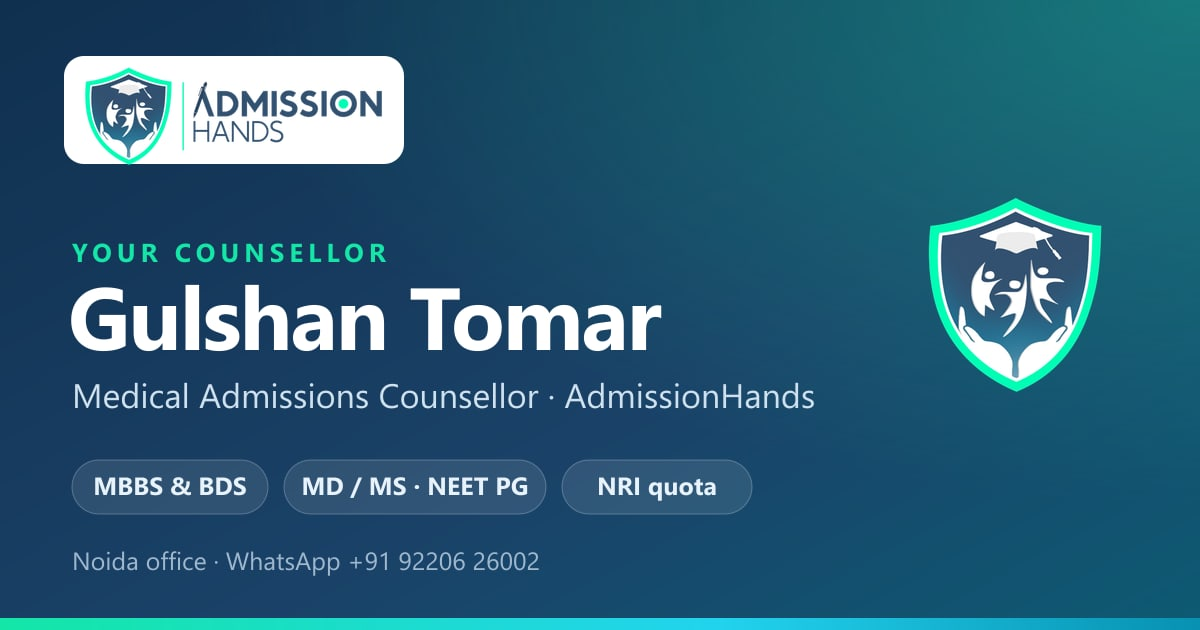
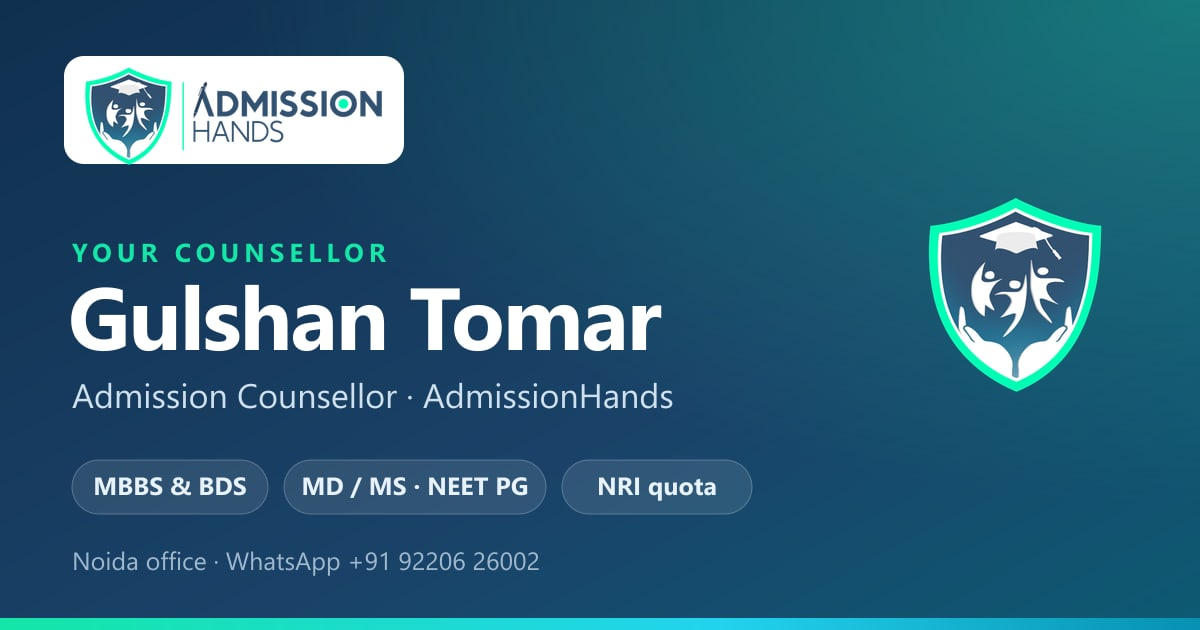
Cards for every counsellor, shared at the site root
Nitin Tomar and Akhtar Khan (Senior Counsellor), Gulshan Tomar and Dev Kumar
(Admission Counsellor), built by scripts/make_cards.cjs from one template:
page, vCard and WhatsApp preview each. Shared as www.admissionhands.com/<slug>
— next.config rewrites every slug found in public/card — and /card/<slug>
keeps working for the link already sent.

Changed region(s): [[0.0617, 0.6032, 0.6783, 0.6635]]

diff --git a/public/card/akhtar-khan.html b/public/card/akhtar-khan.html
@@ -3,20 +3,20 @@
 <head>
 <meta charset="utf-8">
 <meta name="viewport" content="width=device-width, initial-scale=1, viewport-fit=cover">
-<title>Gulshan Tomar · Admission Counsellor · AdmissionHands</title>
-<meta name="description" content="Gulshan Tomar, Admission Counsellor at AdmissionHands — NEET UG and NEET PG counselling for MBBS, BDS and MD/MS. WhatsApp, call or visit the Noida office.">
+<title>Akhtar Khan · Senior Counsellor · AdmissionHands</title>
+<meta name="description" content="Akhtar Khan, Senior Counsellor at AdmissionHands — NEET UG and NEET PG counselling for MBBS, BDS and MD/MS. WhatsApp, call or visit the Noida office.">
 <meta name="robots" content="noindex, follow">
 <meta name="theme-color" content="#10304f">
-<link rel="canonical" href="https://www.admissionhands.com/gulshan-tomar">
+<link rel="canonical" href="https://www.admissionhands.com/akhtar-khan">
 <meta property="og:type" content="profile">
 <meta property="og:site_name" content="AdmissionHands">
-<meta property="og:title" content="Gulshan Tomar — Admission Counsellor">
+<meta property="og:title" content="Akhtar Khan — Senior Counsellor">
 <meta property="og:description" content="NEET UG &amp; PG counselling for MBBS, BDS and MD/MS. Tap to WhatsApp, call, save the contact or get directions to the Noida office.">
-<meta property="og:url" content="https://www.admissionhands.com/gulshan-tomar">
-<meta property="og:image" content="https://www.admissionhands.com/card/gulshan-tomar-og.jpg">
+<meta property="og:url" content="https://www.admissionhands.com/akhtar-khan">
+<meta property="og:image" content="https://www.admissionhands.com/card/akhtar-khan-og.jpg">
 <meta property="og:image:width" content="1200">
 <meta property="og:image:height" content="630">
-<meta property="og:image:alt" content="Gulshan Tomar, Admission Counsellor, AdmissionHands">
+<meta property="og:image:alt" content="Akhtar Khan, Senior Counsellor, AdmissionHands">
 <meta name="twitter:card" content="summary_large_image">
 <link rel="icon" href="/favicon.ico" sizes="any">
 <link rel="apple-touch-icon" href="/apple-touch-icon.png">
@@ -109,11 +109,11 @@ footer img{height:30px;width:auto;display:block;margin:0 auto 8px;filter:brightn
 
     <section class="hero" aria-label="Counsellor">
       <div class="person">
-        <div class="avatar" aria-hidden="true">GT</div>
+        <div class="avatar" aria-hidden="true">AK</div>
         <div>
           <div class="eyebrow">Your counsellor</div>
-          <h1>Gulshan Tomar</h1>
-          <p class="role">Admission Counsellor, AdmissionHands</p>
+          <h1>Akhtar Khan</h1>
+          <p class="role">Senior Counsellor, AdmissionHands</p>
         </div>
       </div>
       <ul class="chips" aria-label="Areas">
@@ -122,16 +122,16 @@ footer img{height:30px;width:auto;display:block;margin:0 auto 8px;filter:brightn
     </section>
 
     <section class="actions" aria-label="Contact">
-      <a class="btn wa" href="https://wa.me/919220626002?text=Hello%20Gulshan%2C%20I%20need%20guidance%20for%20NEET%20counselling." target="_blank" rel="noopener">
+      <a class="btn wa" href="https://wa.me/919999098638?text=Hello%20Akhtar%2C%20I%20need%20guidance%20for%20NEET%20counselling." target="_blank" rel="noopener">
         <svg viewBox="0 0 24 24" aria-hidden="true"><path d="M7.9 20A9 9 0 1 0 4 16.1L2 22Z"/></svg>WhatsApp
       </a>
-      <a class="btn call" href="tel:+919220626002">
+      <a class="btn call" href="tel:+919999098638">
         <svg viewBox="0 0 24 24" aria-hidden="true"><path d="M22 16.92v3a2 2 0 0 1-2.18 2 19.79 19.79 0 0 1-8.63-3.07 19.5 19.5 0 0 1-6-6 19.79 19.79 0 0 1-3.07-8.67A2 2 0 0 1 4.11 2h3a2 2 0 0 1 2 1.72 12.84 12.84 0 0 0 .7 2.81 2 2 0 0 1-.45 2.11L8.09 9.91a16 16 0 0 0 6 6l1.27-1.27a2 2 0 0 1 2.11-.45 12.84 12.84 0 0 0 2.81.7A2 2 0 0 1 22 16.92z"/></svg>Call now
       </a>
-      <a class="btn save wide" href="/card/gulshan-tomar.vcf" download="Gulshan-Tomar-AdmissionHands.vcf">
+      <a class="btn save wide" href="/card/akhtar-khan.vcf" download="Akhtar-Khan-AdmissionHands.vcf">
         <svg viewBox="0 0 24 24" aria-hidden="true"><path d="M16 21v-2a4 4 0 0 0-4-4H6a4 4 0 0 0-4 4v2"/><circle cx="9" cy="7" r="4"/><line x1="19" x2="19" y1="8" y2="14"/><line x1="22" x2="16" y1="11" y2="11"/></svg>Save contact to phone
       </a>
-      <a class="btn ghost" href="mailto:gulshan.tomar@admissionhands.com">
+      <a class="btn ghost" href="mailto:akhtarkhan@admissionhands.com">
         <svg viewBox="0 0 24 24" aria-hidden="true"><rect width="20" height="16" x="2" y="4" rx="2"/><path d="m22 7-8.97 5.7a1.94 1.94 0 0 1-2.06 0L2 7"/></svg>Email
       </a>
       <button class="btn ghost" type="button" id="share">
@@ -180,8 +180,8 @@ footer img{height:30px;width:auto;display:block;margin:0 auto 8px;filter:brightn
 
     <section class="section" aria-label="Contact details">
       <div class="contact">
-        <a href="tel:+919220626002"><svg viewBox="0 0 24 24" aria-hidden="true"><path d="M22 16.92v3a2 2 0 0 1-2.18 2 19.79 19.79 0 0 1-8.63-3.07 19.5 19.5 0 0 1-6-6 19.79 19.79 0 0 1-3.07-8.67A2 2 0 0 1 4.11 2h3a2 2 0 0 1 2 1.72 12.84 12.84 0 0 0 .7 2.81 2 2 0 0 1-.45 2.11L8.09 9.91a16 16 0 0 0 6 6l1.27-1.27a2 2 0 0 1 2.11-.45 12.84 12.84 0 0 0 2.81.7A2 2 0 0 1 22 16.92z"/></svg>+91 92206 26002</a>
-        <a href="mailto:gulshan.tomar@admissionhands.com"><svg viewBox="0 0 24 24" aria-hidden="true"><rect width="20" height="16" x="2" y="4" rx="2"/><path d="m22 7-8.97 5.7a1.94 1.94 0 0 1-2.06 0L2 7"/></svg>gulshan.tomar@admissionhands.com</a>
+        <a href="tel:+919999098638"><svg viewBox="0 0 24 24" aria-hidden="true"><path d="M22 16.92v3a2 2 0 0 1-2.18 2 19.79 19.79 0 0 1-8.63-3.07 19.5 19.5 0 0 1-6-6 19.79 19.79 0 0 1-3.07-8.67A2 2 0 0 1 4.11 2h3a2 2 0 0 1 2 1.72 12.84 12.84 0 0 0 .7 2.81 2 2 0 0 1-.45 2.11L8.09 9.91a16 16 0 0 0 6 6l1.27-1.27a2 2 0 0 1 2.11-.45 12.84 12.84 0 0 0 2.81.7A2 2 0 0 1 22 16.92z"/></svg>+91 99990 98638</a>
+        <a href="mailto:akhtarkhan@admissionhands.com"><svg viewBox="0 0 24 24" aria-hidden="true"><rect width="20" height="16" x="2" y="4" rx="2"/><path d="m22 7-8.97 5.7a1.94 1.94 0 0 1-2.06 0L2 7"/></svg>akhtarkhan@admissionhands.com</a>
         <a href="https://www.admissionhands.com/"><svg viewBox="0 0 24 24" aria-hidden="true"><circle cx="12" cy="12" r="10"/><path d="M12 2a14.5 14.5 0 0 0 0 20 14.5 14.5 0 0 0 0-20"/><path d="M2 12h20"/></svg>www.admissionhands.com</a>
       </div>
     </section>
@@ -197,10 +197,10 @@ footer img{height:30px;width:auto;display:block;margin:0 auto 8px;filter:brightn
 <script>
 (function () {
   var btn = document.getElementById("share"), toast = document.getElementById("toast");
-  var url = "https://www.admissionhands.com/gulshan-tomar";
+  var url = "https://www.admissionhands.com/akhtar-khan";
   function say(t) { toast.textContent = t; toast.classList.add("show"); setTimeout(function () { toast.classList.remove("show"); }, 2200); }
   btn.addEventListener("click", function () {
-    var data = { title: "Gulshan Tomar — AdmissionHands", text: "NEET counselling — Gulshan Tomar, AdmissionHands", url: url };
+    var data = { title: "Akhtar Khan — AdmissionHands", text: "NEET counselling — Akhtar Khan, AdmissionHands", url: url };
     if (navigator.share) { navigator.share(data).catch(function () {}); return; }
     if (navigator.clipboard) { navigator.clipboard.writeText(url).then(function () { say("Link copied"); }, function () { say(url); }); return; }
     say(url);

diff --git a/public/card/nitin-tomar.html b/public/card/nitin-tomar.html
@@ -3,20 +3,20 @@
 <head>
 <meta charset="utf-8">
 <meta name="viewport" content="width=device-width, initial-scale=1, viewport-fit=cover">
-<title>Gulshan Tomar · Admission Counsellor · AdmissionHands</title>
-<meta name="description" content="Gulshan Tomar, Admission Counsellor at AdmissionHands — NEET UG and NEET PG counselling for MBBS, BDS and MD/MS. WhatsApp, call or visit the Noida office.">
+<title>Nitin Tomar · Senior Counsellor · AdmissionHands</title>
+<meta name="description" content="Nitin Tomar, Senior Counsellor at AdmissionHands — NEET UG and NEET PG counselling for MBBS, BDS and MD/MS. WhatsApp, call or visit the Noida office.">
 <meta name="robots" content="noindex, follow">
 <meta name="theme-color" content="#10304f">
-<link rel="canonical" href="https://www.admissionhands.com/gulshan-tomar">
+<link rel="canonical" href="https://www.admissionhands.com/nitin-tomar">
 <meta property="og:type" content="profile">
 <meta property="og:site_name" content="AdmissionHands">
-<meta property="og:title" content="Gulshan Tomar — Admission Counsellor">
+<meta property="og:title" content="Nitin Tomar — Senior Counsellor">
 <meta property="og:description" content="NEET UG &amp; PG counselling for MBBS, BDS and MD/MS. Tap to WhatsApp, call, save the contact or get directions to the Noida office.">
-<meta property="og:url" content="https://www.admissionhands.com/gulshan-tomar">
-<meta property="og:image" content="https://www.admissionhands.com/card/gulshan-tomar-og.jpg">
+<meta property="og:url" content="https://www.admissionhands.com/nitin-tomar">
+<meta property="og:image" content="https://www.admissionhands.com/card/nitin-tomar-og.jpg">
 <meta property="og:image:width" content="1200">
 <meta property="og:image:height" content="630">
-<meta property="og:image:alt" content="Gulshan Tomar, Admission Counsellor, AdmissionHands">
+<meta property="og:image:alt" content="Nitin Tomar, Senior Counsellor, AdmissionHands">
 <meta name="twitter:card" content="summary_large_image">
 <link rel="icon" href="/favicon.ico" sizes="any">
 <link rel="apple-touch-icon" href="/apple-touch-icon.png">
@@ -109,11 +109,11 @@ footer img{height:30px;width:auto;display:block;margin:0 auto 8px;filter:brightn
 
     <section class="hero" aria-label="Counsellor">
       <div class="person">
-        <div class="avatar" aria-hidden="true">GT</div>
+        <div class="avatar" aria-hidden="true">NT</div>
         <div>
           <div class="eyebrow">Your counsellor</div>
-          <h1>Gulshan Tomar</h1>
-          <p class="role">Admission Counsellor, AdmissionHands</p>
+          <h1>Nitin Tomar</h1>
+          <p class="role">Senior Counsellor, AdmissionHands</p>
         </div>
       </div>
       <ul class="chips" aria-label="Areas">
@@ -122,16 +122,16 @@ footer img{height:30px;width:auto;display:block;margin:0 auto 8px;filter:brightn
     </section>
 
     <section class="actions" aria-label="Contact">
-      <a class="btn wa" href="https://wa.me/919220626002?text=Hello%20Gulshan%2C%20I%20need%20guidance%20for%20NEET%20counselling." target="_blank" rel="noopener">
+      <a class="btn wa" href="https://wa.me/919310301949?text=Hello%20Nitin%2C%20I%20need%20guidance%20for%20NEET%20counselling." target="_blank" rel="noopener">
         <svg viewBox="0 0 24 24" aria-hidden="true"><path d="M7.9 20A9 9 0 1 0 4 16.1L2 22Z"/></svg>WhatsApp
       </a>
-      <a class="btn call" href="tel:+919220626002">
+      <a class="btn call" href="tel:+919310301949">
         <svg viewBox="0 0 24 24" aria-hidden="true"><path d="M22 16.92v3a2 2 0 0 1-2.18 2 19.79 19.79 0 0 1-8.63-3.07 19.5 19.5 0 0 1-6-6 19.79 19.79 0 0 1-3.07-8.67A2 2 0 0 1 4.11 2h3a2 2 0 0 1 2 1.72 12.84 12.84 0 0 0 .7 2.81 2 2 0 0 1-.45 2.11L8.09 9.91a16 16 0 0 0 6 6l1.27-1.27a2 2 0 0 1 2.11-.45 12.84 12.84 0 0 0 2.81.7A2 2 0 0 1 22 16.92z"/></svg>Call now
       </a>
-      <a class="btn save wide" href="/card/gulshan-tomar.vcf" download="Gulshan-Tomar-AdmissionHands.vcf">
+      <a class="btn save wide" href="/card/nitin-tomar.vcf" download="Nitin-Tomar-AdmissionHands.vcf">
         <svg viewBox="0 0 24 24" aria-hidden="true"><path d="M16 21v-2a4 4 0 0 0-4-4H6a4 4 0 0 0-4 4v2"/><circle cx="9" cy="7" r="4"/><line x1="19" x2="19" y1="8" y2="14"/><line x1="22" x2="16" y1="11" y2="11"/></svg>Save contact to phone
       </a>
-      <a class="btn ghost" href="mailto:gulshan.tomar@admissionhands.com">
+      <a class="btn ghost" href="mailto:nitintomar@admissionhands.com">
         <svg viewBox="0 0 24 24" aria-hidden="true"><rect width="20" height="16" x="2" y="4" rx="2"/><path d="m22 7-8.97 5.7a1.94 1.94 0 0 1-2.06 0L2 7"/></svg>Email
       </a>
       <button class="btn ghost" type="button" id="share">
@@ -180,8 +180,8 @@ footer img{height:30px;width:auto;display:block;margin:0 auto 8px;filter:brightn
 
     <section class="section" aria-label="Contact details">
       <div class="contact">
-        <a href="tel:+919220626002"><svg viewBox="0 0 24 24" aria-hidden="true"><path d="M22 16.92v3a2 2 0 0 1-2.18 2 19.79 19.79 0 0 1-8.63-3.07 19.5 19.5 0 0 1-6-6 19.79 19.79 0 0 1-3.07-8.67A2 2 0 0 1 4.11 2h3a2 2 0 0 1 2 1.72 12.84 12.84 0 0 0 .7 2.81 2 2 0 0 1-.45 2.11L8.09 9.91a16 16 0 0 0 6 6l1.27-1.27a2 2 0 0 1 2.11-.45 12.84 12.84 0 0 0 2.81.7A2 2 0 0 1 22 16.92z"/></svg>+91 92206 26002</a>
-        <a href="mailto:gulshan.tomar@admissionhands.com"><svg viewBox="0 0 24 24" aria-hidden="true"><rect width="20" height="16" x="2" y="4" rx="2"/><path d="m22 7-8.97 5.7a1.94 1.94 0 0 1-2.06 0L2 7"/></svg>gulshan.tomar@admissionhands.com</a>
+        <a href="tel:+919310301949"><svg viewBox="0 0 24 24" aria-hidden="true"><path d="M22 16.92v3a2 2 0 0 1-2.18 2 19.79 19.79 0 0 1-8.63-3.07 19.5 19.5 0 0 1-6-6 19.79 19.79 0 0 1-3.07-8.67A2 2 0 0 1 4.11 2h3a2 2 0 0 1 2 1.72 12.84 12.84 0 0 0 .7 2.81 2 2 0 0 1-.45 2.11L8.09 9.91a16 16 0 0 0 6 6l1.27-1.27a2 2 0 0 1 2.11-.45 12.84 12.84 0 0 0 2.81.7A2 2 0 0 1 22 16.92z"/></svg>+91 93103 01949</a>
+        <a href="mailto:nitintomar@admissionhands.com"><svg viewBox="0 0 24 24" aria-hidden="true"><rect width="20" height="16" x="2" y="4" rx="2"/><path d="m22 7-8.97 5.7a1.94 1.94 0 0 1-2.06 0L2 7"/></svg>nitintomar@admissionhands.com</a>
         <a href="https://www.admissionhands.com/"><svg viewBox="0 0 24 24" aria-hidden="true"><circle cx="12" cy="12" r="10"/><path d="M12 2a14.5 14.5 0 0 0 0 20 14.5 14.5 0 0 0 0-20"/><path d="M2 12h20"/></svg>www.admissionhands.com</a>
       </div>
     </section>
@@ -197,10 +197,10 @@ footer img{height:30px;width:auto;display:block;margin:0 auto 8px;filter:brightn
 <script>
 (function () {
   var btn = document.getElementById("share"), toast = document.getElementById("toast");
-  var url = "https://www.admissionhands.com/gulshan-tomar";
+  var url = "https://www.admissionhands.com/nitin-tomar";
   function say(t) { toast.textContent = t; toast.classList.add("show"); setTimeout(function () { toast.classList.remove("show"); }, 2200); }
   btn.addEventListener("click", function () {
-    var data = { title: "Gulshan Tomar — AdmissionHands", text: "NEET counselling — Gulshan Tomar, AdmissionHands", url: url };
+    var data = { title: "Nitin Tomar — AdmissionHands", text: "NEET counselling — Nitin Tomar, AdmissionHands", url: url };
     if (navigator.share) { navigator.share(data).catch(function () {}); return; }
     if (navigator.clipboard) { navigator.clipboard.writeText(url).then(function () { say("Link copied"); }, function () { say(url); }); return; }
     say(url);

diff --git a/public/card/dev-kumar.html b/public/card/dev-kumar.html
@@ -3,20 +3,20 @@
 <head>
 <meta charset="utf-8">
 <meta name="viewport" content="width=device-width, initial-scale=1, viewport-fit=cover">
-<title>Gulshan Tomar · Admission Counsellor · AdmissionHands</title>
-<meta name="description" content="Gulshan Tomar, Admission Counsellor at AdmissionHands — NEET UG and NEET PG counselling for MBBS, BDS and MD/MS. WhatsApp, call or visit the Noida office.">
+<title>Dev Kumar · Admission Counsellor · AdmissionHands</title>
+<meta name="description" content="Dev Kumar, Admission Counsellor at AdmissionHands — NEET UG and NEET PG counselling for MBBS, BDS and MD/MS. WhatsApp, call or visit the Noida office.">
 <meta name="robots" content="noindex, follow">
 <meta name="theme-color" content="#10304f">
-<link rel="canonical" href="https://www.admissionhands.com/gulshan-tomar">
+<link rel="canonical" href="https://www.admissionhands.com/dev-kumar">
 <meta property="og:type" content="profile">
 <meta property="og:site_name" content="AdmissionHands">
-<meta property="og:title" content="Gulshan Tomar — Admission Counsellor">
+<meta property="og:title" content="Dev Kumar — Admission Counsellor">
 <meta property="og:description" content="NEET UG &amp; PG counselling for MBBS, BDS and MD/MS. Tap to WhatsApp, call, save the contact or get directions to the Noida office.">
-<meta property="og:url" content="https://www.admissionhands.com/gulshan-tomar">
-<meta property="og:image" content="https://www.admissionhands.com/card/gulshan-tomar-og.jpg">
+<meta property="og:url" content="https://www.admissionhands.com/dev-kumar">
+<meta property="og:image" content="https://www.admissionhands.com/card/dev-kumar-og.jpg">
 <meta property="og:image:width" content="1200">
 <meta property="og:image:height" content="630">
-<meta property="og:image:alt" content="Gulshan Tomar, Admission Counsellor, AdmissionHands">
+<meta property="og:image:alt" content="Dev Kumar, Admission Counsellor, AdmissionHands">
 <meta name="twitter:card" content="summary_large_image">
 <link rel="icon" href="/favicon.ico" sizes="any">
 <link rel="apple-touch-icon" href="/apple-touch-icon.png">
@@ -109,10 +109,10 @@ footer img{height:30px;width:auto;display:block;margin:0 auto 8px;filter:brightn
 
     <section class="hero" aria-label="Counsellor">
       <div class="person">
-        <div class="avatar" aria-hidden="true">GT</div>
+        <div class="avatar" aria-hidden="true">DK</div>
         <div>
           <div class="eyebrow">Your counsellor</div>
-          <h1>Gulshan Tomar</h1>
+          <h1>Dev Kumar</h1>
           <p class="role">Admission Counsellor, AdmissionHands</p>
         </div>
       </div>
@@ -122,16 +122,16 @@ footer img{height:30px;width:auto;display:block;margin:0 auto 8px;filter:brightn
     </section>
 
     <section class="actions" aria-label="Contact">
-      <a class="btn wa" href="https://wa.me/919220626002?text=Hello%20Gulshan%2C%20I%20need%20guidance%20for%20NEET%20counselling." target="_blank" rel="noopener">
+      <a class="btn wa" href="https://wa.me/917678670846?text=Hello%20Dev%2C%20I%20need%20guidance%20for%20NEET%20counselling." target="_blank" rel="noopener">
         <svg viewBox="0 0 24 24" aria-hidden="true"><path d="M7.9 20A9 9 0 1 0 4 16.1L2 22Z"/></svg>WhatsApp
       </a>
-      <a class="btn call" href="tel:+919220626002">
+      <a class="btn call" href="tel:+917678670846">
         <svg viewBox="0 0 24 24" aria-hidden="true"><path d="M22 16.92v3a2 2 0 0 1-2.18 2 19.79 19.79 0 0 1-8.63-3.07 19.5 19.5 0 0 1-6-6 19.79 19.79 0 0 1-3.07-8.67A2 2 0 0 1 4.11 2h3a2 2 0 0 1 2 1.72 12.84 12.84 0 0 0 .7 2.81 2 2 0 0 1-.45 2.11L8.09 9.91a16 16 0 0 0 6 6l1.27-1.27a2 2 0 0 1 2.11-.45 12.84 12.84 0 0 0 2.81.7A2 2 0 0 1 22 16.92z"/></svg>Call now
       </a>
-      <a class="btn save wide" href="/card/gulshan-tomar.vcf" download="Gulshan-Tomar-AdmissionHands.vcf">
+      <a class="btn save wide" href="/card/dev-kumar.vcf" download="Dev-Kumar-AdmissionHands.vcf">
         <svg viewBox="0 0 24 24" aria-hidden="true"><path d="M16 21v-2a4 4 0 0 0-4-4H6a4 4 0 0 0-4 4v2"/><circle cx="9" cy="7" r="4"/><line x1="19" x2="19" y1="8" y2="14"/><line x1="22" x2="16" y1="11" y2="11"/></svg>Save contact to phone
       </a>
-      <a class="btn ghost" href="mailto:gulshan.tomar@admissionhands.com">
+      <a class="btn ghost" href="mailto:devkumar@admissionhands.com">
         <svg viewBox="0 0 24 24" aria-hidden="true"><rect width="20" height="16" x="2" y="4" rx="2"/><path d="m22 7-8.97 5.7a1.94 1.94 0 0 1-2.06 0L2 7"/></svg>Email
       </a>
       <button class="btn ghost" type="button" id="share">
@@ -180,8 +180,8 @@ footer img{height:30px;width:auto;display:block;margin:0 auto 8px;filter:brightn
 
     <section class="section" aria-label="Contact details">
       <div class="contact">
-        <a href="tel:+919220626002"><svg viewBox="0 0 24 24" aria-hidden="true"><path d="M22 16.92v3a2 2 0 0 1-2.18 2 19.79 19.79 0 0 1-8.63-3.07 19.5 19.5 0 0 1-6-6 19.79 19.79 0 0 1-3.07-8.67A2 2 0 0 1 4.11 2h3a2 2 0 0 1 2 1.72 12.84 12.84 0 0 0 .7 2.81 2 2 0 0 1-.45 2.11L8.09 9.91a16 16 0 0 0 6 6l1.27-1.27a2 2 0 0 1 2.11-.45 12.84 12.84 0 0 0 2.81.7A2 2 0 0 1 22 16.92z"/></svg>+91 92206 26002</a>
-        <a href="mailto:gulshan.tomar@admissionhands.com"><svg viewBox="0 0 24 24" aria-hidden="true"><rect width="20" height="16" x="2" y="4" rx="2"/><path d="m22 7-8.97 5.7a1.94 1.94 0 0 1-2.06 0L2 7"/></svg>gulshan.tomar@admissionhands.com</a>
+        <a href="tel:+917678670846"><svg viewBox="0 0 24 24" aria-hidden="true"><path d="M22 16.92v3a2 2 0 0 1-2.18 2 19.79 19.79 0 0 1-8.63-3.07 19.5 19.5 0 0 1-6-6 19.79 19.79 0 0 1-3.07-8.67A2 2 0 0 1 4.11 2h3a2 2 0 0 1 2 1.72 12.84 12.84 0 0 0 .7 2.81 2 2 0 0 1-.45 2.11L8.09 9.91a16 16 0 0 0 6 6l1.27-1.27a2 2 0 0 1 2.11-.45 12.84 12.84 0 0 0 2.81.7A2 2 0 0 1 22 16.92z"/></svg>+91 76786 70846</a>
+        <a href="mailto:devkumar@admissionhands.com"><svg viewBox="0 0 24 24" aria-hidden="true"><rect width="20" height="16" x="2" y="4" rx="2"/><path d="m22 7-8.97 5.7a1.94 1.94 0 0 1-2.06 0L2 7"/></svg>devkumar@admissionhands.com</a>
         <a href="https://www.admissionhands.com/"><svg viewBox="0 0 24 24" aria-hidden="true"><circle cx="12" cy="12" r="10"/><path d="M12 2a14.5 14.5 0 0 0 0 20 14.5 14.5 0 0 0 0-20"/><path d="M2 12h20"/></svg>www.admissionhands.com</a>
       </div>
     </section>
@@ -197,10 +197,10 @@ footer img{height:30px;width:auto;display:block;margin:0 auto 8px;filter:brightn
 <script>
 (function () {
   var btn = document.getElementById("share"), toast = document.getElementById("toast");
-  var url = "https://www.admissionhands.com/gulshan-tomar";
+  var url = "https://www.admissionhands.com/dev-kumar";
   function say(t) { toast.textContent = t; toast.classList.add("show"); setTimeout(function () { toast.classList.remove("show"); }, 2200); }
   btn.addEventListener("click", function () {
-    var data = { title: "Gulshan Tomar — AdmissionHands", text: "NEET counselling — Gulshan Tomar, AdmissionHands", url: url };
+    var data = { title: "Dev Kumar — AdmissionHands", text: "NEET counselling — Dev Kumar, AdmissionHands", url: url };
     if (navigator.share) { navigator.share(data).catch(function () {}); return; }
     if (navigator.clipboard) { navigator.clipboard.writeText(url).then(function () { say("Link copied"); }, function () { say(url); }); return; }
     say(url);

diff --git a/scripts/cards/template.html b/scripts/cards/template.html
@@ -3,20 +3,20 @@
 <head>
 <meta charset="utf-8">
 <meta name="viewport" content="width=device-width, initial-scale=1, viewport-fit=cover">
-<title>Gulshan Tomar · Admission Counsellor · AdmissionHands</title>
-<meta name="description" content="Gulshan Tomar, Admission Counsellor at AdmissionHands — NEET UG and NEET PG counselling for MBBS, BDS and MD/MS. WhatsApp, call or visit the Noida office.">
+<title>{{NAME}} · {{TITLE}} · AdmissionHands</title>
+<meta name="description" content="{{NAME}}, {{TITLE}} at AdmissionHands — NEET UG and NEET PG counselling for MBBS, BDS and MD/MS. WhatsApp, call or visit the Noida office.">
 <meta name="robots" content="noindex, follow">
 <meta name="theme-color" content="#10304f">
-<link rel="canonical" href="https://www.admissionhands.com/gulshan-tomar">
+<link rel="canonical" href="https://www.admissionhands.com/{{SLUG}}">
 <meta property="og:type" content="profile">
 <meta property="og:site_name" content="AdmissionHands">
-<meta property="og:title" content="Gulshan Tomar — Admission Counsellor">
+<meta property="og:title" content="{{NAME}} — {{TITLE}}">
 <meta property="og:description" content="NEET UG &amp; PG counselling for MBBS, BDS and MD/MS. Tap to WhatsApp, call, save the contact or get directions to the Noida office.">
-<meta property="og:url" content="https://www.admissionhands.com/gulshan-tomar">
-<meta property="og:image" content="https://www.admissionhands.com/card/gulshan-tomar-og.jpg">
+<meta property="og:url" content="https://www.admissionhands.com/{{SLUG}}">
+<meta property="og:image" content="https://www.admissionhands.com/card/{{SLUG}}-og.jpg">
 <meta property="og:image:width" content="1200">
 <meta property="og:image:height" content="630">
-<meta property="og:image:alt" content="Gulshan Tomar, Admission Counsellor, AdmissionHands">
+<meta property="og:image:alt" content="{{NAME}}, {{TITLE}}, AdmissionHands">
 <meta name="twitter:card" content="summary_large_image">
 <link rel="icon" href="/favicon.ico" sizes="any">
 <link rel="apple-touch-icon" href="/apple-touch-icon.png">
@@ -109,11 +109,11 @@ footer img{height:30px;width:auto;display:block;margin:0 auto 8px;filter:brightn
 
     <section class="hero" aria-label="Counsellor">
       <div class="person">
-        <div class="avatar" aria-hidden="true">GT</div>
+        <div class="avatar" aria-hidden="true">{{INITIALS}}</div>
         <div>
           <div class="eyebrow">Your counsellor</div>
-          <h1>Gulshan Tomar</h1>
-          <p class="role">Admission Counsellor, AdmissionHands</p>
+          <h1>{{NAME}}</h1>
+          <p class="role">{{TITLE}}, AdmissionHands</p>
         </div>
       </div>
       <ul class="chips" aria-label="Areas">
@@ -122,16 +122,16 @@ footer img{height:30px;width:auto;display:block;margin:0 auto 8px;filter:brightn
     </section>
 
     <section class="actions" aria-label="Contact">
-      <a class="btn wa" href="https://wa.me/919220626002?text=Hello%20Gulshan%2C%20I%20need%20guidance%20for%20NEET%20counselling." target="_blank" rel="noopener">
+      <a class="btn wa" href="https://wa.me/{{PHONE}}?text=Hello%20{{FIRST}}%2C%20I%20need%20guidance%20for%20NEET%20counselling." target="_blank" rel="noopener">
         <svg viewBox="0 0 24 24" aria-hidden="true"><path d="M7.9 20A9 9 0 1 0 4 16.1L2 22Z"/></svg>WhatsApp
       </a>
-      <a class="btn call" href="tel:+919220626002">
+      <a class="btn call" href="tel:+{{PHONE}}">
         <svg viewBox="0 0 24 24" aria-hidden="true"><path d="M22 16.92v3a2 2 0 0 1-2.18 2 19.79 19.79 0 0 1-8.63-3.07 19.5 19.5 0 0 1-6-6 19.79 19.79 0 0 1-3.07-8.67A2 2 0 0 1 4.11 2h3a2 2 0 0 1 2 1.72 12.84 12.84 0 0 0 .7 2.81 2 2 0 0 1-.45 2.11L8.09 9.91a16 16 0 0 0 6 6l1.27-1.27a2 2 0 0 1 2.11-.45 12.84 12.84 0 0 0 2.81.7A2 2 0 0 1 22 16.92z"/></svg>Call now
       </a>
-      <a class="btn save wide" href="/card/gulshan-tomar.vcf" download="Gulshan-Tomar-AdmissionHands.vcf">
+      <a class="btn save wide" href="/card/{{SLUG}}.vcf" download="{{FILE}}-AdmissionHands.vcf">
         <svg viewBox="0 0 24 24" aria-hidden="true"><path d="M16 21v-2a4 4 0 0 0-4-4H6a4 4 0 0 0-4 4v2"/><circle cx="9" cy="7" r="4"/><line x1="19" x2="19" y1="8" y2="14"/><line x1="22" x2="16" y1="11" y2="11"/></svg>Save contact to phone
       </a>
-      <a class="btn ghost" href="mailto:gulshan.tomar@admissionhands.com">
+      <a class="btn ghost" href="mailto:{{EMAIL}}">
         <svg viewBox="0 0 24 24" aria-hidden="true"><rect width="20" height="16" x="2" y="4" rx="2"/><path d="m22 7-8.97 5.7a1.94 1.94 0 0 1-2.06 0L2 7"/></svg>Email
       </a>
       <button class="btn ghost" type="button" id="share">
@@ -180,8 +180,8 @@ footer img{height:30px;width:auto;display:block;margin:0 auto 8px;filter:brightn
 
     <section class="section" aria-label="Contact details">
       <div class="contact">
-        <a href="tel:+919220626002"><svg viewBox="0 0 24 24" aria-hidden="true"><path d="M22 16.92v3a2 2 0 0 1-2.18 2 19.79 19.79 0 0 1-8.63-3.07 19.5 19.5 0 0 1-6-6 19.79 19.79 0 0 1-3.07-8.67A2 2 0 0 1 4.11 2h3a2 2 0 0 1 2 1.72 12.84 12.84 0 0 0 .7 2.81 2 2 0 0 1-.45 2.11L8.09 9.91a16 16 0 0 0 6 6l1.27-1.27a2 2 0 0 1 2.11-.45 12.84 12.84 0 0 0 2.81.7A2 2 0 0 1 22 16.92z"/></svg>+91 92206 26002</a>
-        <a href="mailto:gulshan.tomar@admissionhands.com"><svg viewBox="0 0 24 24" aria-hidden="true"><rect width="20" height="16" x="2" y="4" rx="2"/><path d="m22 7-8.97 5.7a1.94 1.94 0 0 1-2.06 0L2 7"/></svg>gulshan.tomar@admissionhands.com</a>
+        <a href="tel:+{{PHONE}}"><svg viewBox="0 0 24 24" aria-hidden="true"><path d="M22 16.92v3a2 2 0 0 1-2.18 2 19.79 19.79 0 0 1-8.63-3.07 19.5 19.5 0 0 1-6-6 19.79 19.79 0 0 1-3.07-8.67A2 2 0 0 1 4.11 2h3a2 2 0 0 1 2 1.72 12.84 12.84 0 0 0 .7 2.81 2 2 0 0 1-.45 2.11L8.09 9.91a16 16 0 0 0 6 6l1.27-1.27a2 2 0 0 1 2.11-.45 12.84 12.84 0 0 0 2.81.7A2 2 0 0 1 22 16.92z"/></svg>{{PHONE_PRETTY}}</a>
+        <a href="mailto:{{EMAIL}}"><svg viewBox="0 0 24 24" aria-hidden="true"><rect width="20" height="16" x="2" y="4" rx="2"/><path d="m22 7-8.97 5.7a1.94 1.94 0 0 1-2.06 0L2 7"/></svg>{{EMAIL}}</a>
         <a href="https://www.admissionhands.com/"><svg viewBox="0 0 24 24" aria-hidden="true"><circle cx="12" cy="12" r="10"/><path d="M12 2a14.5 14.5 0 0 0 0 20 14.5 14.5 0 0 0 0-20"/><path d="M2 12h20"/></svg>www.admissionhands.com</a>
       </div>
     </section>
@@ -197,10 +197,10 @@ footer img{height:30px;width:auto;display:block;margin:0 auto 8px;filter:brightn
 <script>
 (function () {
   var btn = document.getElementById("share"), toast = document.getElementById("toast");
-  var url = "https://www.admissionhands.com/gulshan-tomar";
+  var url = "https://www.admissionhands.com/{{SLUG}}";
   function say(t) { toast.textContent = t; toast.classList.add("show"); setTimeout(function () { toast.classList.remove("show"); }, 2200); }
   btn.addEventListener("click", function () {
-    var data = { title: "Gulshan Tomar — AdmissionHands", text: "NEET counselling — Gulshan Tomar, AdmissionHands", url: url };
+    var data = { title: "{{NAME}} — AdmissionHands", text: "NEET counselling — {{NAME}}, AdmissionHands", url: url };
     if (navigator.share) { navigator.share(data).catch(function () {}); return; }
     if (navigator.clipboard) { navigator.clipboard.writeText(url).then(function () { say("Link copied"); }, function () { say(url); }); return; }
     say(url);
